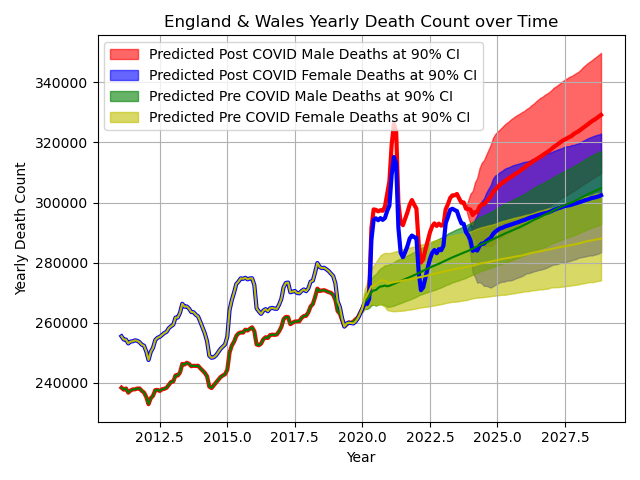
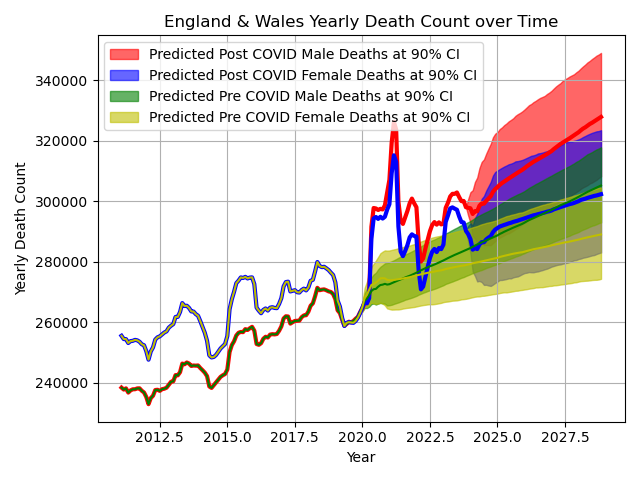
Switch to Pyro's in development Metropolis-Hastings resampler for weighed samples in the ARIMA.examples.mortality example.

diff --git a/ARIMA/examples/mortality.py b/ARIMA/examples/mortality.py
@@ -6,7 +6,7 @@ import torch as pt
 import numpy as np
 import pyro
 from torch.distributions.transforms import ExpTransform, AffineTransform
-from pyro.infer import Predictive
+from pyro.infer import WeighedPredictive, MHResampler
 from pyro.ops.stats import quantile
 from ARIMA import BayesianVARIMA
 from ARIMA.Innovations import NormalInnovationsVector, MultivariateNormalInnovations
@@ -64,12 +64,15 @@ if __name__ == "__main__" or __examples__name__ == "__main__":
 
     # Make predictions
     num_samples = 30000
-    predictive = Predictive(model.predict,
-                            guide=guide,
-                            num_samples=num_samples,
-                            parallel=True,
-                            return_sites=("_RETURN",))
-    samples = predictive(observations[model.obs_idx])['_RETURN']
+    predictive = WeighedPredictive(model.predict,
+                                   guide=guide,
+                                   num_samples=num_samples,
+                                   parallel=True,
+                                   return_sites=("_RETURN",))
+    resampler = MHResampler(predictive)
+    while resampler.get_total_transition_count() < num_samples:
+        samples = resampler(observations[model.obs_idx], model_guide=model)
+        samples = samples.samples['_RETURN']
 
     confidence_interval = [0.05, 0.95]
 
@@ -142,12 +145,15 @@ if __name__ == "__main__" or __examples__name__ == "__main__":
     pre_covid_guide = fit(pre_covid_model, pre_covid_observations[pre_covid_model.obs_idx])
 
     # Make predictions
-    pre_covid_predictive = Predictive(pre_covid_model.predict,
-                                      guide=pre_covid_guide,
-                                      num_samples=num_samples,
-                                      parallel=True,
-                                      return_sites=("_RETURN",))
-    pre_covid_samples = pre_covid_predictive(pre_covid_observations[pre_covid_model.obs_idx])['_RETURN']
+    pre_covid_predictive = WeighedPredictive(pre_covid_model.predict,
+                                             guide=pre_covid_guide,
+                                             num_samples=num_samples,
+                                             parallel=True,
+                                             return_sites=("_RETURN",))
+    pre_covid_resampler = MHResampler(pre_covid_predictive)
+    while pre_covid_resampler.get_total_transition_count() < num_samples:
+        pre_covid_samples = pre_covid_resampler(pre_covid_observations[pre_covid_model.obs_idx], model_guide=pre_covid_model)
+        pre_covid_samples = pre_covid_samples.samples['_RETURN']
 
     # Plot yearly death counts
     window_len = 12
@@ -201,12 +207,15 @@ if __name__ == "__main__" or __examples__name__ == "__main__":
     multi_arima_guide = fit(multi_arima_model, observations[multi_arima_model.obs_idx])
 
     # Make predictions
-    predictive = Predictive(multi_arima_model.predict,
-                            guide=multi_arima_guide,
-                            num_samples=num_samples,
-                            parallel=True,
-                            return_sites=("_RETURN",))
-    multi_arima_samples = predictive(observations[multi_arima_model.obs_idx])['_RETURN']
+    predictive = WeighedPredictive(multi_arima_model.predict,
+                                   guide=multi_arima_guide,
+                                   num_samples=num_samples,
+                                   parallel=True,
+                                   return_sites=("_RETURN",))
+    resampler = MHResampler(predictive)
+    while resampler.get_total_transition_count() < num_samples:
+        multi_arima_samples = resampler(observations[multi_arima_model.obs_idx], model_guide=multi_arima_model)
+        multi_arima_samples = multi_arima_samples.samples['_RETURN']
 
     # Calculate yearly moving sum
     period_multi_arima_samples = moving_sum(multi_arima_samples, window_len, 1)

diff --git a/ARIMA/examples/bayesian.py b/ARIMA/examples/bayesian.py
@@ -72,7 +72,6 @@ if __name__ == '__main__' or __examples__name__ == '__main__':
     resampler = MHResampler(predictive)
     while resampler.get_total_transition_count() < num_samples:
         samples = resampler(observations[model.obs_idx], model_guide=model)
-        obs_prob_all = samples.model_log_prob
         samples = samples.samples['_RETURN']
     confidence_interval = [0.05, 0.95]
 
